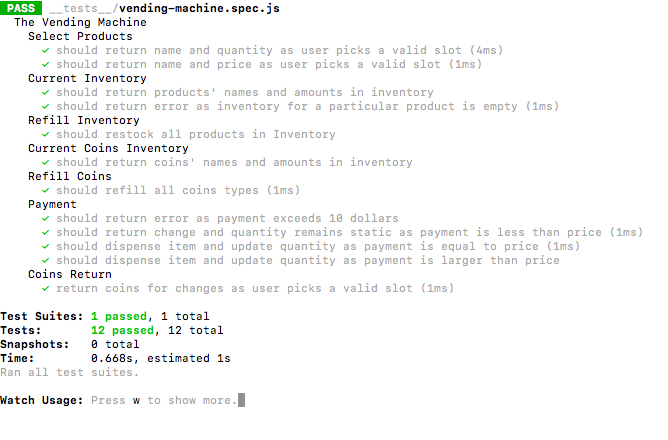
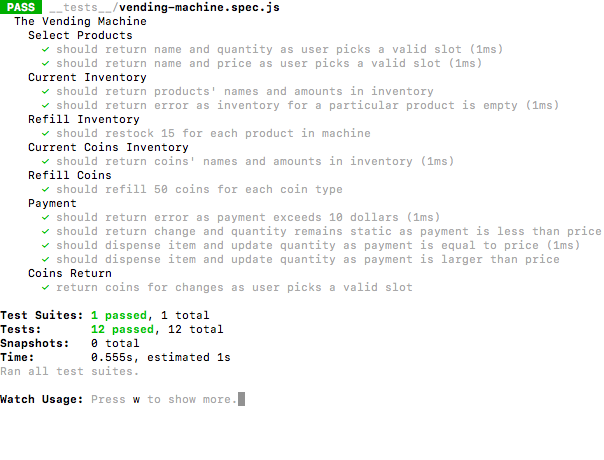
Edited Restock Inventory Test

Changed region(s): [[0.0, 0.0, 1.0, 0.9455]]

diff --git a/__tests__/vending-machine.spec.js b/__tests__/vending-machine.spec.js
@@ -10,7 +10,7 @@ describe("The Vending Machine", () => {
     it("should return name and quantity as user picks a valid slot", () => {
       expect(MachineConstructor.getProductCount("A1")).toEqual({
         name: "Honey Butter Chips",
-        quantity: 15
+        quantity: 10
       });
     });
     it("should return name and price as user picks a valid slot", () => {
@@ -24,7 +24,7 @@ describe("The Vending Machine", () => {
   describe("Current Inventory", () => {
     it("should return products' names and amounts in inventory", () => {
       expect(MachineConstructor.printInventory()).toEqual(
-        "15 Honey Butter Chips, 15 Sugarpova, 15 Nerds, 15 Hersheys"
+        "10 Honey Butter Chips, 12 Sugarpova, 11 Nerds, 8 Hersheys"
       );
     });
     it("should return error as inventory for a particular product is empty", () => {
@@ -35,7 +35,7 @@ describe("The Vending Machine", () => {
   });
 
   describe("Refill Inventory", () => {
-    it("should restock all products in Inventory", () => {
+    it("should restock 15 for each product in machine", () => {
       expect(MachineConstructor.restockInventory()).toBe(60);
     });
   });
@@ -43,14 +43,14 @@ describe("The Vending Machine", () => {
   describe("Current Coins Inventory", () => {
     it("should return coins' names and amounts in inventory", () => {
       expect(MachineConstructor.printCoinsInventory()).toEqual(
-        "15 Nickles, 15 Dimes, 15 Quarters, 15 Loonies, 15 Toonies"
+        "30 Nickles, 20 Dimes, 25 Quarters, 34 Loonies, 12 Toonies"
       );
     });
   });
 
   describe("Refill Coins", () => {
-    it("should refill all coins types", () => {
-      expect(MachineConstructor.refillCoins()).toBe(75);
+    it("should refill 50 coins for each coin type", () => {
+      expect(MachineConstructor.refillCoins()).toBe(250);
     });
   });
 

diff --git a/src/vending-machine.js b/src/vending-machine.js
@@ -76,8 +76,8 @@ class VendingMachine {
     const coins = Object.entries(this.data.coins);
     let refill = 0;
     coins.map(coinType => {
-      if (coinType[1].count < 15) {
-        coinType[1].count = 15;
+      if (coinType[1].count < 50) {
+        coinType[1].count = 50;
       }
       refill += coinType[1].count;
     });

diff --git a/README.md b/README.md
@@ -1,6 +1,6 @@
 # Vending Machine
 
-Vending Machine is a UI-less Javascript Application that describe and test for vending machine functionalities. The machine stores a variety of products, dispenses items and return coins depend on user input.
+Simple vending machine built using Javascript. The machine stores a variety of products, dispenses items and return coins depend on user input.
 
 ## Authors
 
@@ -16,6 +16,11 @@ Tim Nguyen | https://github.com/timng93
 
 - Jest Library
 
+- Javascript
+
+
 ## Installation Instructions
+
+`npm install`
 
 `npm test`
